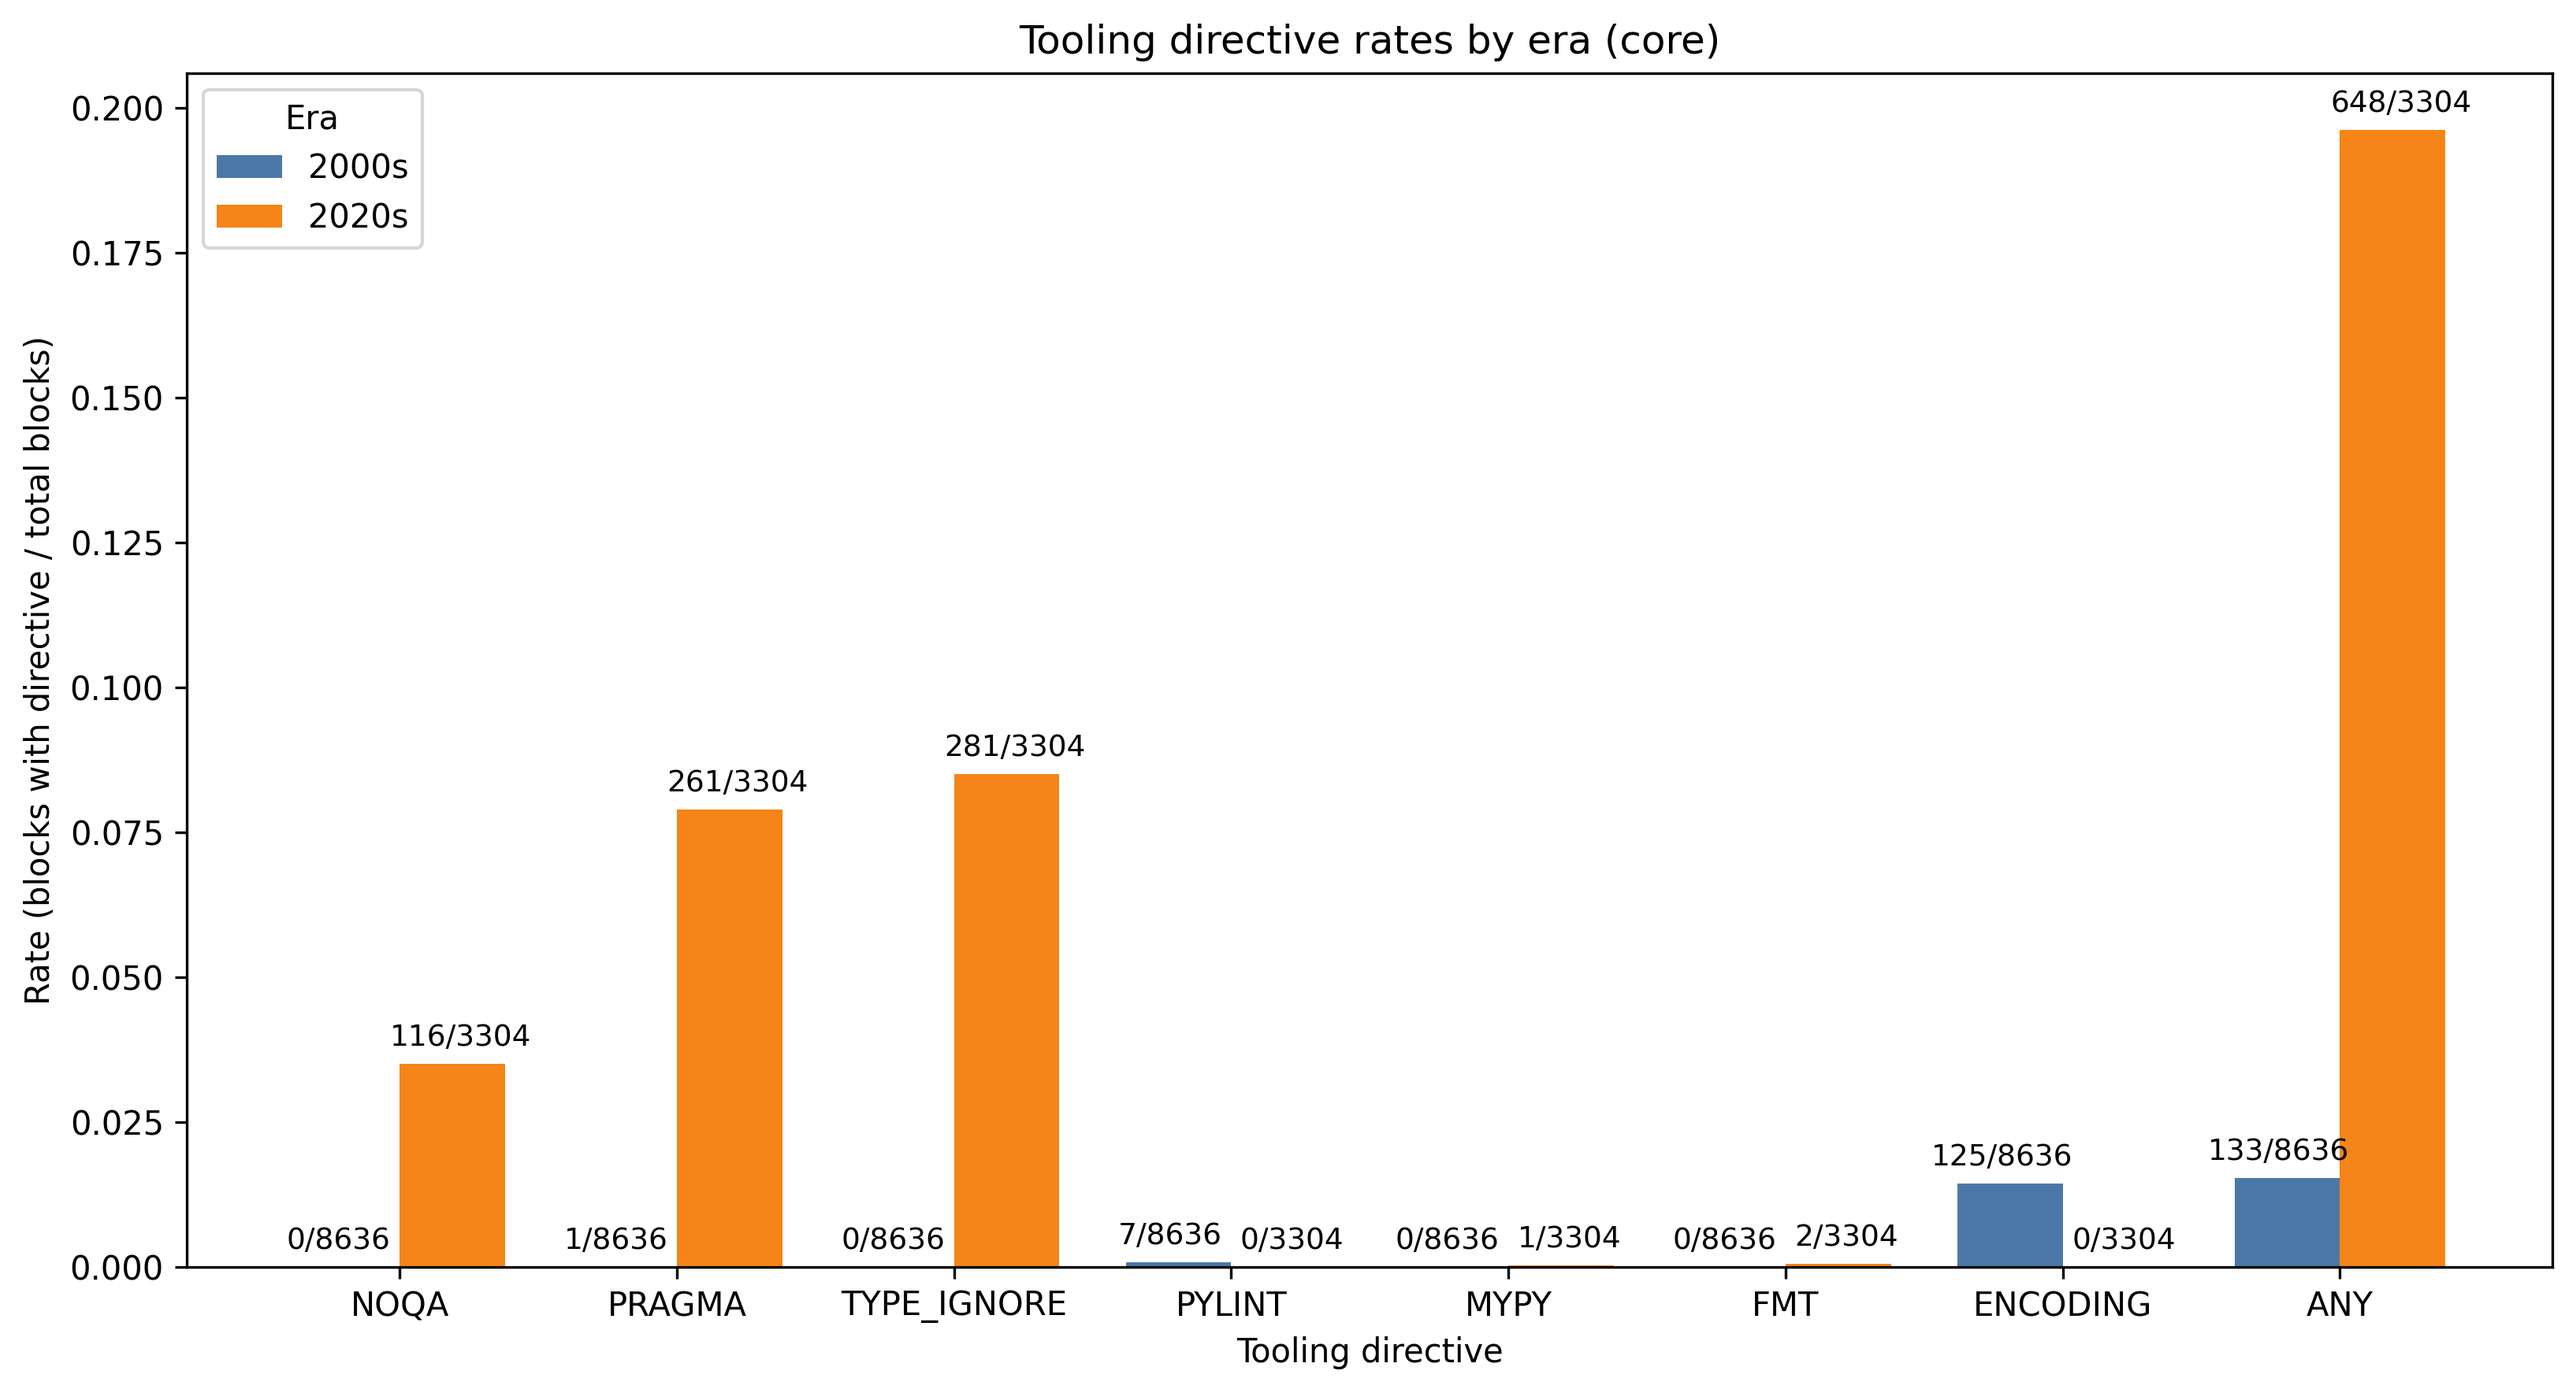
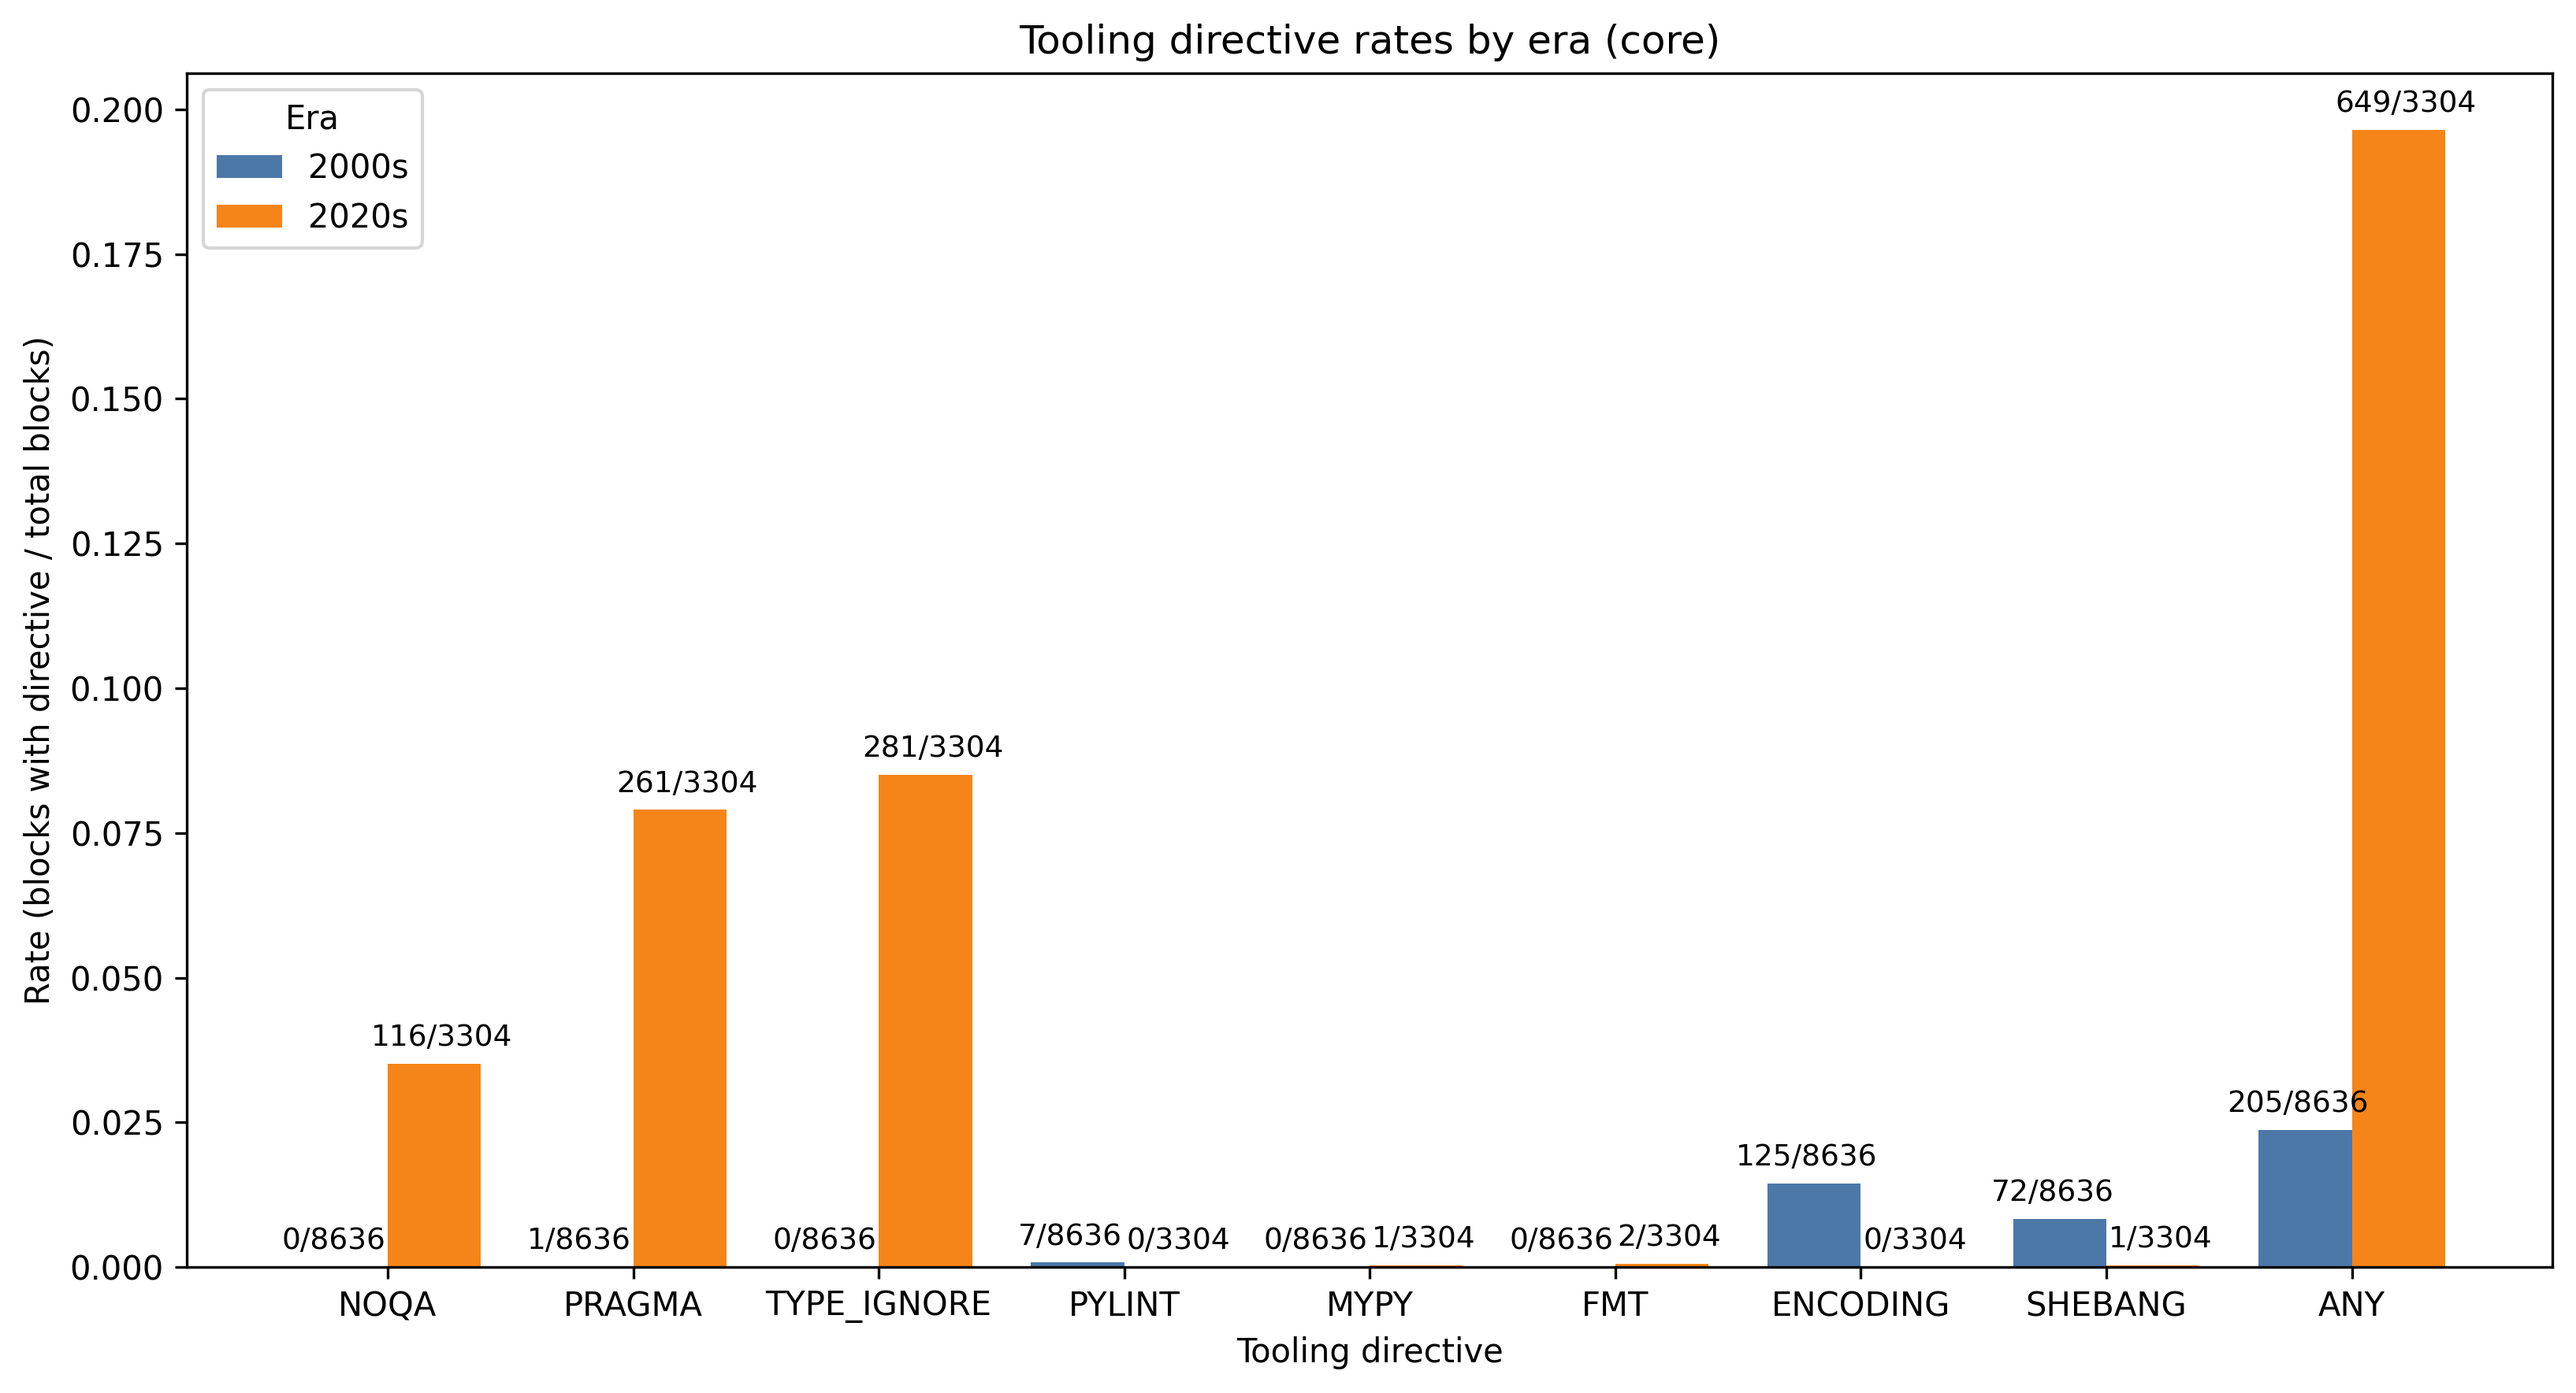
add shebangs to tooling directives

diff --git a/scripts/calculate-results/metrics/tooling_directives.py b/scripts/calculate-results/metrics/tooling_directives.py
@@ -34,12 +34,17 @@ def compute_tooling_directive_metrics(
 
     df = blocks_df.copy()
 
+    # also accounting for shebangs that were not classified previously as tooling directives
+    df["tooling_or_shebang"] = (
+        df["td_has_tooling_directive"] | df["sb_is_shebang"]
+    )
+
     repo_level_df = (
         df.groupby(REPO_GROUP_COLS, as_index=False)
         .agg(
             total_blocks=("block_id", "count"),
 
-            tooling_blocks=("td_has_tooling_directive", "sum"),
+            tooling_blocks=("tooling_or_shebang", "sum"),
 
             noqa_blocks=("td_has_noqa", "sum"),
             pragma_blocks=("td_has_pragma", "sum"),
@@ -48,6 +53,7 @@ def compute_tooling_directive_metrics(
             mypy_blocks=("td_has_mypy", "sum"),
             fmt_blocks=("td_has_fmt", "sum"),
             encoding_blocks=("td_has_encoding", "sum"),
+            shebang_blocks=("sb_is_shebang", "sum"),
         )
     )
 
@@ -78,6 +84,9 @@ def compute_tooling_directive_metrics(
     repo_level_df["encoding_block_ratio"] = (
         repo_level_df["encoding_blocks"] / repo_level_df["total_blocks"]
     )
+    repo_level_df["shebang_block_ratio"] = (
+        repo_level_df["shebang_blocks"] / repo_level_df["total_blocks"]
+    )
 
     repo_level_out = repo_level_df[
         [
@@ -95,6 +104,7 @@ def compute_tooling_directive_metrics(
             "mypy_blocks",
             "fmt_blocks",
             "encoding_blocks",
+            "shebang_blocks",
 
             "tooling_block_ratio",
             "noqa_block_ratio",
@@ -104,6 +114,7 @@ def compute_tooling_directive_metrics(
             "mypy_block_ratio",
             "fmt_block_ratio",
             "encoding_block_ratio",
+            "shebang_block_ratio",
         ]
     ].copy()
 
@@ -121,6 +132,7 @@ def compute_tooling_directive_metrics(
             mypy_blocks=("mypy_blocks", "sum"),
             fmt_blocks=("fmt_blocks", "sum"),
             encoding_blocks=("encoding_blocks", "sum"),
+            shebang_blocks=("shebang_blocks", "sum"),
 
             mean_repo_tooling_block_ratio=("tooling_block_ratio", "mean"),
             median_repo_tooling_block_ratio=("tooling_block_ratio", "median"),
@@ -145,6 +157,9 @@ def compute_tooling_directive_metrics(
 
             mean_repo_encoding_block_ratio=("encoding_block_ratio", "mean"),
             median_repo_encoding_block_ratio=("encoding_block_ratio", "median"),
+
+            mean_repo_shebang_block_ratio=("shebang_block_ratio", "mean"),
+            median_repo_shebang_block_ratio=("shebang_block_ratio", "median")
         )
     )
 
@@ -174,6 +189,9 @@ def compute_tooling_directive_metrics(
     group_level_df["encoding_block_ratio"] = (
         group_level_df["encoding_blocks"] / group_level_df["total_blocks"]
     )
+    group_level_df["shebang_block_ratio"] = (
+        group_level_df["shebang_blocks"] / group_level_df["total_blocks"]
+    )
 
     group_level_out = group_level_df[
         [
@@ -190,6 +208,7 @@ def compute_tooling_directive_metrics(
             "mypy_blocks",
             "fmt_blocks",
             "encoding_blocks",
+            "shebang_blocks",
 
             "tooling_block_ratio",
             "noqa_block_ratio",
@@ -199,6 +218,7 @@ def compute_tooling_directive_metrics(
             "mypy_block_ratio",
             "fmt_block_ratio",
             "encoding_block_ratio",
+            "shebang_block_ratio",
 
             "mean_repo_tooling_block_ratio",
             "median_repo_tooling_block_ratio",
@@ -223,6 +243,9 @@ def compute_tooling_directive_metrics(
 
             "mean_repo_encoding_block_ratio",
             "median_repo_encoding_block_ratio",
+
+            "mean_repo_shebang_block_ratio",
+            "median_repo_shebang_block_ratio",
         ]
     ].copy()
 

diff --git a/tests/features/check-sb.py b/tests/features/check-sb.py
@@ -1,5 +1,3 @@
-# python tests/features/check-sb.py
-
 import pandas as pd
 from pathlib import Path
 
@@ -7,7 +5,19 @@ file_path = Path("data/processed/comment_blocks_enriched/core/comment_blocks_enr
 
 df = pd.read_parquet(file_path)
 
-percentage = df["sb_is_shebang"].mean() * 100
+# Overall percentage
+overall_percentage = df["sb_is_shebang"].mean() * 100
+print(f"Overall: {overall_percentage:.2f}% of rows have sb_is_shebang = True")
 
-print(f"{percentage:.2f}% of rows have sb_is_shebang = True")
+# Group-specific percentages
+group_percentages = (
+    df.groupby("group")["sb_is_shebang"]
+    .mean()
+    .mul(100)
+)
 
+for group in ["old_2000s", "new_2020s"]:
+    if group in group_percentages.index:
+        print(f"{group}: {group_percentages[group]:.2f}% of rows have sb_is_shebang = True")
+    else:
+        print(f"{group}: group not found")

diff --git a/scripts/visualize-results/visualize-td.py b/scripts/visualize-results/visualize-td.py
@@ -76,6 +76,7 @@ def make_tooling_directive_rate_double_bar(group_df: pd.DataFrame, subset: str) 
         ("mypy_block_ratio", "mypy_blocks", "MYPY"),
         ("fmt_block_ratio", "fmt_blocks", "FMT"),
         ("encoding_block_ratio", "encoding_blocks", "ENCODING"),
+        ("shebang_block_ratio", "shebang_blocks", "SHEBANG"),
         ("tooling_block_ratio", "tooling_blocks", "ANY"),
     ]
 
